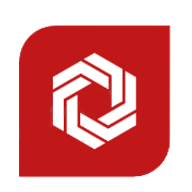
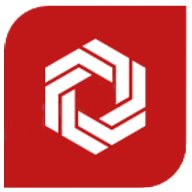
фикс иконок, убрал стрелки слайдера на мобильных устройствах

diff --git a/client/index.html b/client/index.html
@@ -3,10 +3,18 @@
   <head>
     <meta charset="UTF-8" />
     <meta name="viewport" content="width=device-width, initial-scale=1.0" />
-    <title>Vladopt.ru - оптовые поставки материалов и инструмента для шиноремонта</title>
+    <title>ВладОПТ - оптовые поставки материалов и инструмента для шиноремонта</title>
     <meta
       name="description"
-      content="Vladopt.ru - оптовый поставщик материалов и инструмента для шиноремонта. Каталог товаров, новости, контакты и запрос прайс-листа."
+      content="ВладОПТ - оптовый поставщик материалов и инструмента для шиноремонта. Каталог товаров, новости, контакты и запрос прайс-листа."
+    />
+    <meta
+      itemprop="description"
+      content="ВладОПТ - оптовый поставщик материалов и инструмента для шиноремонта. Каталог товаров, новости, контакты и запрос прайс-листа."
+    />
+    <meta
+      name="DC.description"
+      content="ВладОПТ - оптовый поставщик материалов и инструмента для шиноремонта. Каталог товаров, новости, контакты и запрос прайс-листа."
     />
     <meta
       name="robots"
@@ -17,32 +25,37 @@
       content="index, follow, max-snippet:-1, max-image-preview:large, max-video-preview:-1"
     />
     <meta name="theme-color" content="#0f172a" />
-    <meta name="author" content="Vladopt.ru" />
-    <meta name="application-name" content="Vladopt.ru" />
+    <meta name="author" content="ВладОПТ" />
+    <meta name="application-name" content="ВладОПТ" />
     <meta property="og:locale" content="ru_RU" />
-    <meta property="og:site_name" content="Vladopt.ru" />
+    <meta property="og:site_name" content="ВладОПТ" />
     <meta property="og:type" content="website" />
-    <meta property="og:title" content="Vladopt.ru - оптовые поставки материалов и инструмента для шиноремонта" />
+    <meta property="og:title" content="ВладОПТ - оптовые поставки материалов и инструмента для шиноремонта" />
     <meta
       property="og:description"
-      content="Vladopt.ru - оптовый поставщик материалов и инструмента для шиноремонта. Каталог товаров, новости, контакты и запрос прайс-листа."
+      content="ВладОПТ - оптовый поставщик материалов и инструмента для шиноремонта. Каталог товаров, новости, контакты и запрос прайс-листа."
     />
     <meta property="og:url" content="https://vladopt.ru/" />
     <meta property="og:image" content="https://vladopt.ru/branding/vladopt-logo-transparent.png" />
     <meta name="twitter:card" content="summary_large_image" />
-    <meta name="twitter:title" content="Vladopt.ru - оптовые поставки материалов и инструмента для шиноремонта" />
+    <meta name="twitter:title" content="ВладОПТ - оптовые поставки материалов и инструмента для шиноремонта" />
     <meta
       name="twitter:description"
-      content="Vladopt.ru - оптовый поставщик материалов и инструмента для шиноремонта. Каталог товаров, новости, контакты и запрос прайс-листа."
+      content="ВладОПТ - оптовый поставщик материалов и инструмента для шиноремонта. Каталог товаров, новости, контакты и запрос прайс-листа."
     />
     <meta name="twitter:image" content="https://vladopt.ru/branding/vladopt-logo-transparent.png" />
     <link rel="canonical" href="https://vladopt.ru/" />
     <link rel="alternate" hreflang="ru-RU" href="https://vladopt.ru/" />
     <link rel="alternate" hreflang="x-default" href="https://vladopt.ru/" />
-    <link rel="icon" href="/favicon.ico" sizes="any" />
-    <link rel="icon" type="image/png" sizes="32x32" href="/favicon-32x32.png" />
-    <link rel="icon" type="image/png" sizes="16x16" href="/favicon-16x16.png" />
-    <link rel="apple-touch-icon" sizes="180x180" href="/apple-touch-icon.png" />
+    <link rel="shortcut icon" href="/favicon.ico?v=4" sizes="any" />
+    <link rel="icon" href="/favicon.ico?v=4" sizes="any" />
+    <link rel="icon" type="image/png" sizes="512x512" href="/android-chrome-512x512.png?v=4" />
+    <link rel="icon" type="image/png" sizes="192x192" href="/android-chrome-192x192.png?v=4" />
+    <link rel="icon" type="image/png" sizes="48x48" href="/favicon-48x48.png?v=4" />
+    <link rel="icon" type="image/png" sizes="32x32" href="/favicon-32x32.png?v=4" />
+    <link rel="icon" type="image/png" sizes="16x16" href="/favicon-16x16.png?v=4" />
+    <link rel="apple-touch-icon" sizes="180x180" href="/apple-touch-icon.png?v=4" />
+    <meta name="msapplication-TileImage" content="/android-chrome-192x192.png?v=4" />
     <link rel="manifest" href="/site.webmanifest" />
     <link rel="dns-prefetch" href="//fonts.googleapis.com" />
     <link rel="dns-prefetch" href="//fonts.gstatic.com" />
@@ -71,22 +84,22 @@
         "@graph": [
           {
             "@type": "Organization",
-            "name": "Vladopt.ru",
+            "name": "ВладОПТ",
             "url": "https://vladopt.ru",
             "logo": "https://vladopt.ru/branding/vladopt-logo-transparent.png",
             "description": "Оптовые поставки материалов и инструмента для шиноремонта по России."
           },
           {
             "@type": "WebSite",
-            "name": "Vladopt.ru",
+            "name": "ВладОПТ",
             "url": "https://vladopt.ru",
             "inLanguage": "ru-RU"
           },
           {
             "@type": "WebPage",
-            "name": "Vladopt.ru - оптовые поставки материалов и инструмента для шиноремонта",
+            "name": "ВладОПТ - оптовые поставки материалов и инструмента для шиноремонта",
             "url": "https://vladopt.ru/",
-            "description": "Vladopt.ru - оптовый поставщик материалов и инструмента для шиноремонта. Каталог товаров, новости, контакты и запрос прайс-листа.",
+            "description": "ВладОПТ - оптовый поставщик материалов и инструмента для шиноремонта. Каталог товаров, новости, контакты и запрос прайс-листа.",
             "inLanguage": "ru-RU"
           }
         ]
@@ -97,7 +110,7 @@
     <div id="root"></div>
     <noscript>
       <main>
-        <h1>Vladopt.ru</h1>
+        <h1>ВладОПТ</h1>
         <p>
           Оптовый поставщик материалов и инструмента для шиноремонта. Каталог товаров, новости, контакты и запрос прайс-листа.
         </p>

diff --git a/client/src/pages/Home.tsx b/client/src/pages/Home.tsx
@@ -21,7 +21,7 @@ export default function Home() {
   return (
     <div className="flex flex-col min-h-screen">
       <SeoHead
-        title="Инструменты и расходные материалы для шиноремонта | Vladopt.ru"
+        title="Инструменты и расходные материалы для шиноремонта | ВладОПТ"
         description="Оптовые поставки инструмента и расходных материалов для шиноремонта. Актуальные позиции каталога и быстрый запрос стоимости."
         path="/"
         type="website"
@@ -29,7 +29,7 @@ export default function Home() {
           {
             "@context": "https://schema.org",
             "@type": "Organization",
-            name: "Vladopt.ru",
+            name: "ВладОПТ",
             url: "https://vladopt.ru",
             logo: "https://vladopt.ru/branding/vladopt-logo-transparent.png",
             contactPoint: [
@@ -45,7 +45,7 @@ export default function Home() {
           {
             "@context": "https://schema.org",
             "@type": "WebSite",
-            name: "Vladopt.ru",
+            name: "ВладОПТ",
             url: "https://vladopt.ru",
             inLanguage: "ru-RU",
           },
@@ -95,7 +95,7 @@ export default function Home() {
               <CarouselPrevious
                 variant="ghost"
                 aria-label="Предыдущий слайд"
-                className="-left-4 sm:-left-6 md:-left-6 lg:-left-16 h-20 w-20 border-0 [border-color:transparent] bg-transparent text-slate-900/75 hover:text-slate-900 hover:bg-transparent focus-visible:ring-0 focus-visible:outline-none hover:shadow-none active:shadow-none shadow-none transition-all duration-300 translate-y-[-50%] -translate-x-6 opacity-0 pointer-events-none group-hover/slider:opacity-100 group-hover/slider:translate-x-0 group-hover/slider:pointer-events-auto"
+                className="hidden min-[1100px]:flex -left-4 sm:-left-6 md:-left-6 lg:-left-16 h-20 w-20 border-0 [border-color:transparent] bg-transparent text-slate-900/75 hover:text-slate-900 hover:bg-transparent focus-visible:ring-0 focus-visible:outline-none hover:shadow-none active:shadow-none shadow-none transition-all duration-300 translate-y-[-50%] -translate-x-6 opacity-0 pointer-events-none group-hover/slider:opacity-100 group-hover/slider:translate-x-0 group-hover/slider:pointer-events-auto"
               >
                 <svg
                   viewBox="0 0 24 24"
@@ -113,7 +113,7 @@ export default function Home() {
               <CarouselNext
                 variant="ghost"
                 aria-label="Следующий слайд"
-                className="-right-4 sm:-right-6 md:-right-6 lg:-right-16 h-20 w-20 border-0 [border-color:transparent] bg-transparent text-slate-900/75 hover:text-slate-900 hover:bg-transparent focus-visible:ring-0 focus-visible:outline-none hover:shadow-none active:shadow-none shadow-none transition-all duration-300 translate-y-[-50%] translate-x-6 opacity-0 pointer-events-none group-hover/slider:opacity-100 group-hover/slider:translate-x-0 group-hover/slider:pointer-events-auto"
+                className="hidden min-[1100px]:flex -right-4 sm:-right-6 md:-right-6 lg:-right-16 h-20 w-20 border-0 [border-color:transparent] bg-transparent text-slate-900/75 hover:text-slate-900 hover:bg-transparent focus-visible:ring-0 focus-visible:outline-none hover:shadow-none active:shadow-none shadow-none transition-all duration-300 translate-y-[-50%] translate-x-6 opacity-0 pointer-events-none group-hover/slider:opacity-100 group-hover/slider:translate-x-0 group-hover/slider:pointer-events-auto"
               >
                 <svg
                   viewBox="0 0 24 24"

diff --git a/script/generate-icons.ts b/script/generate-icons.ts
@@ -5,11 +5,27 @@ import pngToIco from "png-to-ico";
 
 const PUBLIC_DIR = path.resolve(process.cwd(), "client/public");
 const SOURCE = path.join(PUBLIC_DIR, "favicon.png");
+const ICON_PADDING_FACTOR = 0.96;
 
 async function writeResizedPng(size: number, targetName: string) {
   const targetPath = path.join(PUBLIC_DIR, targetName);
-  const buffer = await sharp(SOURCE)
-    .resize(size, size, { fit: "cover" })
+  const innerSize = Math.max(1, Math.round(size * ICON_PADDING_FACTOR));
+  const offset = Math.max(0, Math.floor((size - innerSize) / 2));
+  const inner = await sharp(SOURCE)
+    .trim()
+    .resize(innerSize, innerSize, { fit: "contain", background: { r: 0, g: 0, b: 0, alpha: 0 } })
+    .png({ compressionLevel: 9 })
+    .toBuffer();
+
+  const buffer = await sharp({
+    create: {
+      width: size,
+      height: size,
+      channels: 4,
+      background: { r: 0, g: 0, b: 0, alpha: 0 },
+    },
+  })
+    .composite([{ input: inner, left: offset, top: offset }])
     .png({ compressionLevel: 9 })
     .toBuffer();
   await fs.writeFile(targetPath, buffer);

diff --git a/client/src/components/seo/SeoHead.tsx b/client/src/components/seo/SeoHead.tsx
@@ -1,9 +1,9 @@
 import { useEffect } from "react";
 
-const SITE_NAME = "Vladopt.ru";
-const DEFAULT_TITLE = "Vladopt.ru - оптовые поставки материалов и инструмента для шиноремонта";
+const SITE_NAME = "ВладОПТ";
+const DEFAULT_TITLE = "ВладОПТ - оптовые поставки материалов и инструмента для шиноремонта";
 const DEFAULT_DESCRIPTION =
-  "Vladopt.ru - оптовый поставщик материалов и инструмента для шиноремонта. Каталог товаров, новости, контакты и запрос прайс-листа.";
+  "ВладОПТ - оптовый поставщик материалов и инструмента для шиноремонта. Каталог товаров, новости, контакты и запрос прайс-листа.";
 const DEFAULT_IMAGE = "/branding/vladopt-logo-transparent.png";
 
 type SeoType = "website" | "article" | "product";

diff --git a/client/src/pages/NewsDetail.tsx b/client/src/pages/NewsDetail.tsx
@@ -45,7 +45,7 @@ export default function NewsDetail() {
     return (
       <div className="min-h-screen flex flex-col items-center justify-center bg-slate-50 text-center px-4">
         <SeoHead
-          title="Новость не найдена | Vladopt.ru"
+          title="Новость не найдена | ВладОПТ"
           description="Запрошенная новость не найдена."
           path={`/news/${newsId || ""}`}
           type="article"
@@ -70,7 +70,7 @@ export default function NewsDetail() {
   return (
     <div className="min-h-screen bg-[radial-gradient(1100px_520px_at_0%_0%,rgba(37,99,235,0.10),transparent_58%),radial-gradient(950px_420px_at_100%_12%,rgba(15,23,42,0.08),transparent_60%),#f8fafc] py-10 md:py-16">
       <SeoHead
-        title={`${item.title} | Vladopt.ru`}
+        title={`${item.title} | ВладОПТ`}
         description={newsDescription || "Новость компании ВладОПТ."}
         path={`/news/${item.id}`}
         type="article"

diff --git a/client/src/pages/ProductDetail.tsx b/client/src/pages/ProductDetail.tsx
@@ -113,7 +113,7 @@ export default function ProductDetail() {
     return (
       <div className="min-h-screen flex flex-col items-center justify-center bg-slate-50 text-center px-4">
         <SeoHead
-          title="Товар не найден | Vladopt.ru"
+          title="Товар не найден | ВладОПТ"
           description="Запрошенный товар не найден."
           path={`/catalog/${id || ""}`}
           type="product"
@@ -193,7 +193,7 @@ export default function ProductDetail() {
   return (
     <div className="bg-slate-50 min-h-screen py-8 md:py-12">
       <SeoHead
-        title={`${product.name} | Vladopt.ru`}
+        title={`${product.name} | ВладОПТ`}
         description={productDescription.slice(0, 180)}
         path={`/catalog/${product.id}`}
         image={seoImage}

diff --git a/client/src/pages/News.tsx b/client/src/pages/News.tsx
@@ -69,7 +69,7 @@ export default function News() {
   return (
     <div className="min-h-screen bg-[radial-gradient(1200px_500px_at_0%_0%,rgba(37,99,235,0.12),transparent_60%),radial-gradient(900px_420px_at_100%_12%,rgba(15,23,42,0.08),transparent_60%),#f8fafc] py-14 md:py-20">
       <SeoHead
-        title="Новости компании и информация о товаре | Vladopt.ru"
+        title="Новости компании и информация о товаре | ВладОПТ"
         description="Поступления, акции, изменения по каталогу и другая информация о товаре ВладОПТ."
         path="/news"
         type="website"

diff --git a/client/src/pages/Catalog.tsx b/client/src/pages/Catalog.tsx
@@ -56,7 +56,7 @@ export default function Catalog() {
   return (
     <div ref={catalogTopRef} className="bg-slate-50 min-h-screen py-8">
       <SeoHead
-        title="Каталог продукции | Vladopt.ru"
+        title="Каталог продукции | ВладОПТ"
         description="Каталог товаров для шиноремонта: инструмент и расходные материалы. Поиск по названию и артикулу, фильтрация по категориям."
         path="/catalog"
         type="website"

diff --git a/client/src/pages/About.tsx b/client/src/pages/About.tsx
@@ -47,7 +47,7 @@ export default function About() {
   return (
     <div className="min-h-screen bg-slate-50 py-12 md:py-16">
       <SeoHead
-        title="О компании | Vladopt.ru"
+        title="О компании | ВладОПТ"
         description="ВладОПТ — оптовый поставщик инструмента и материалов для шиноремонта. Прямые поставки, понятные условия и работа по России."
         path="/about"
         type="website"

diff --git a/client/src/pages/Contacts.tsx b/client/src/pages/Contacts.tsx
@@ -7,7 +7,7 @@ export default function Contacts() {
   return (
     <div className="bg-slate-50 min-h-screen py-16">
       <SeoHead
-        title="Контакты | Vladopt.ru"
+        title="Контакты | ВладОПТ"
         description="Контактная информация ВладОПТ: телефоны, email, Max и местонахождение во Владивостоке."
         path="/contacts"
         type="website"

diff --git a/client/src/pages/not-found.tsx b/client/src/pages/not-found.tsx
@@ -6,7 +6,7 @@ export default function NotFound() {
   return (
     <div className="min-h-screen w-full flex items-center justify-center bg-gray-50">
       <SeoHead
-        title="Страница не найдена | Vladopt.ru"
+        title="Страница не найдена | ВладОПТ"
         description="Запрошенная страница не найдена."
         noindex
       />
